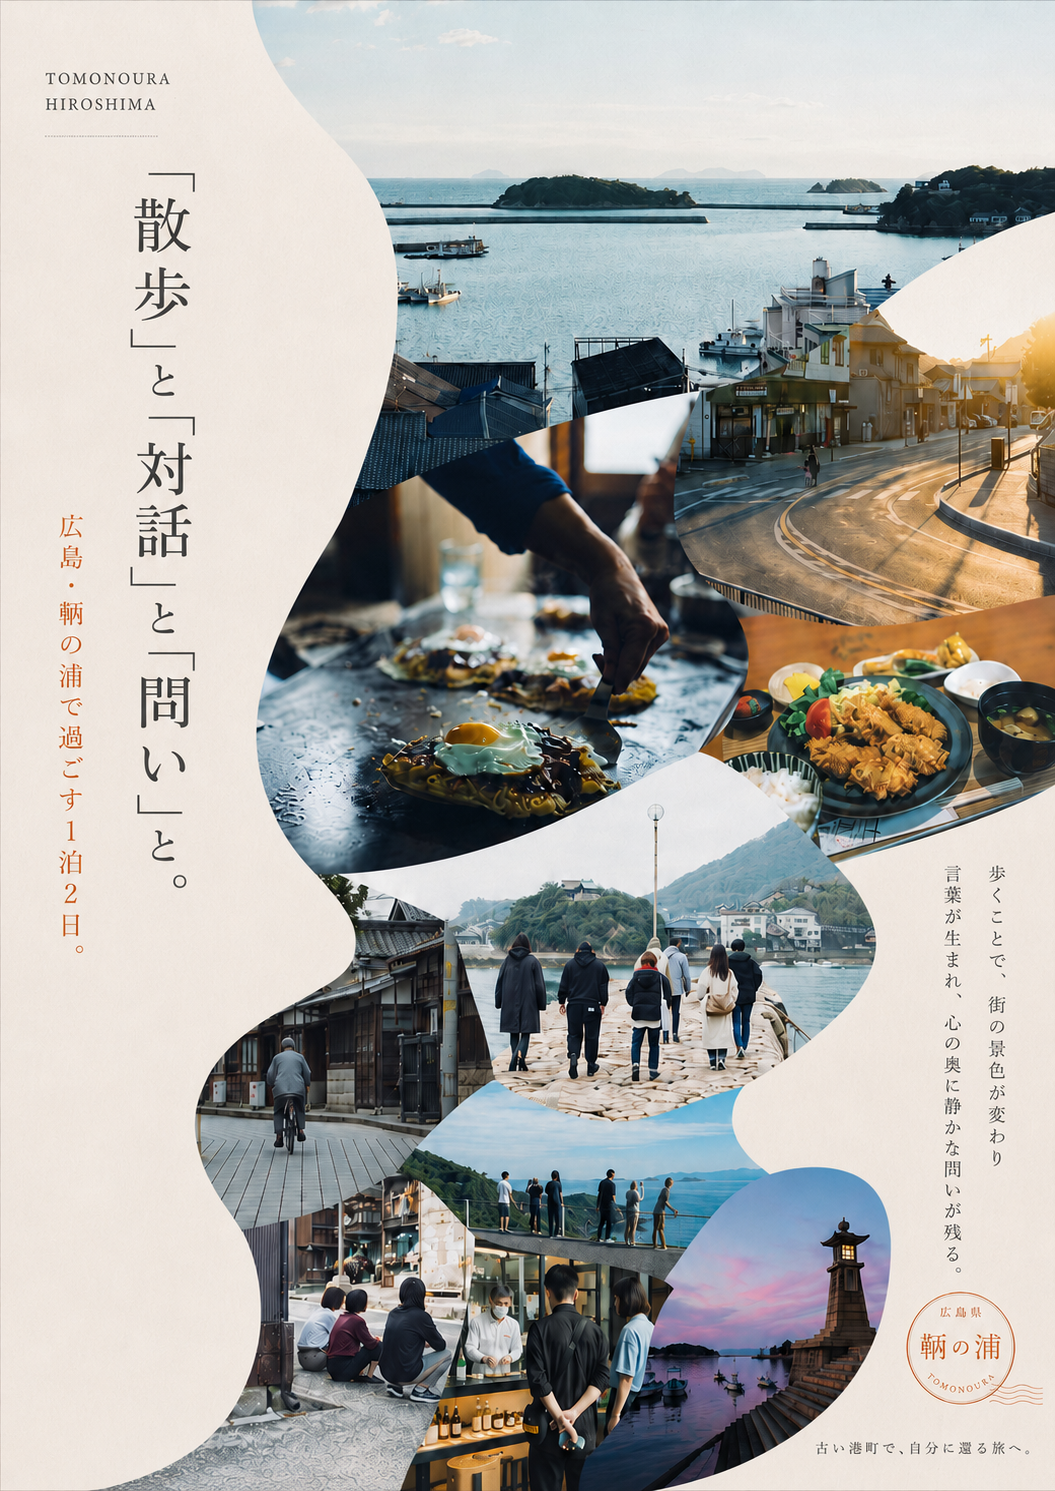
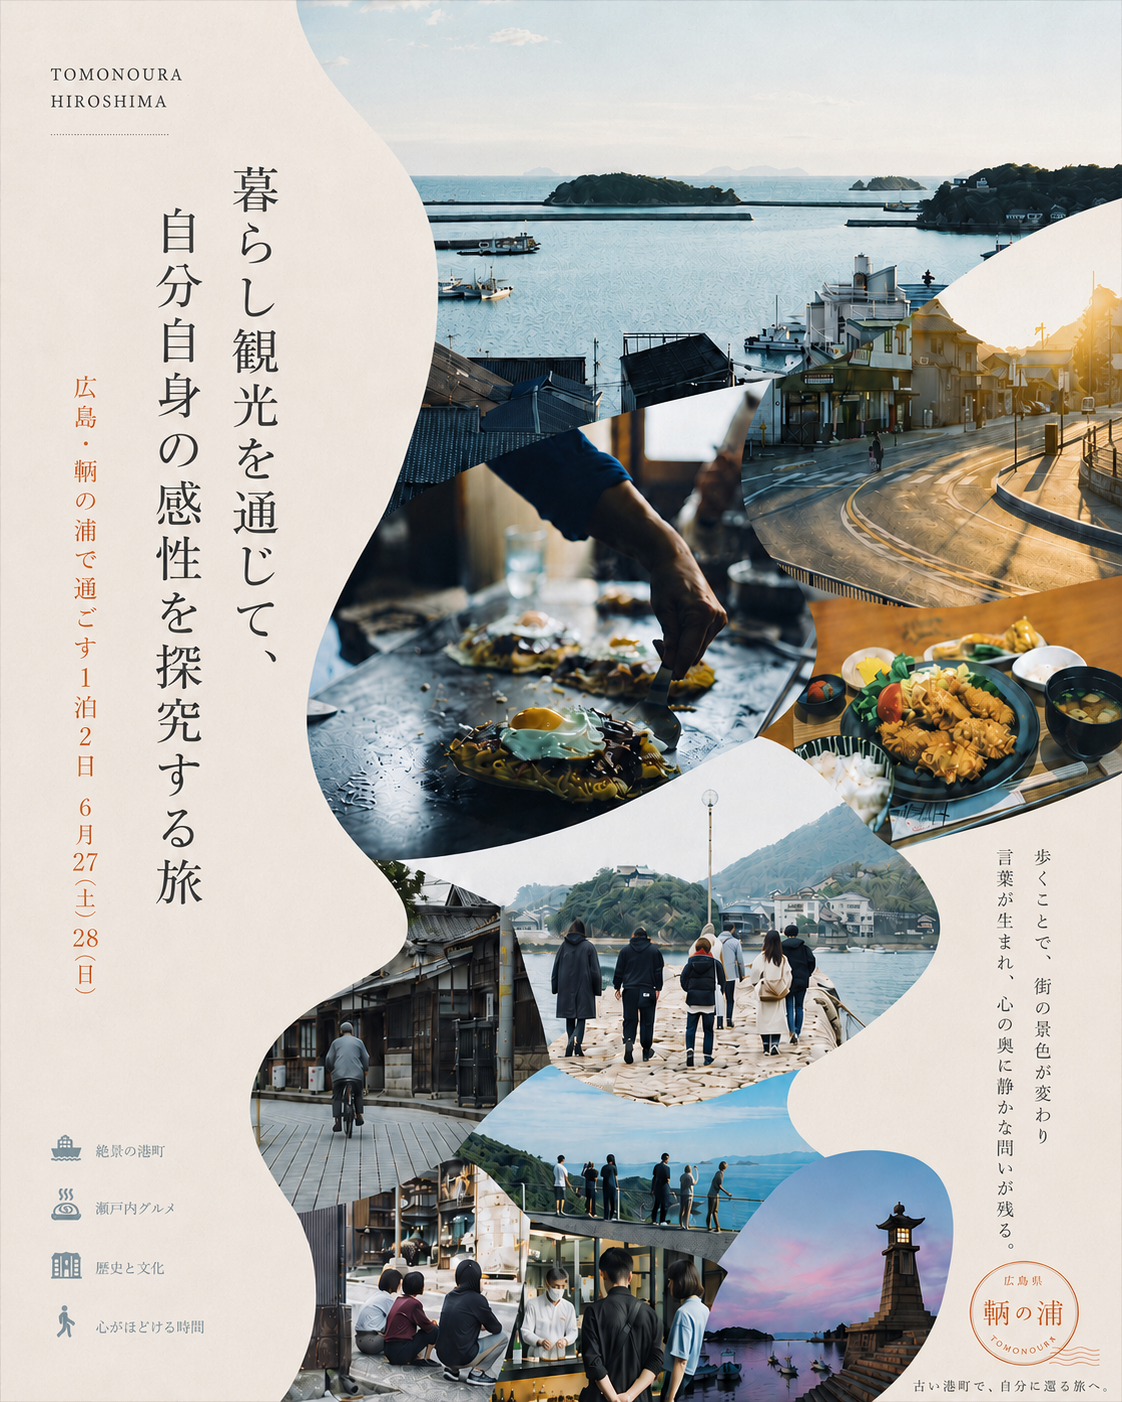
Update hero KV and 燧冶 stay photo
TOP画像を tomover2 の新ポスターに、宿泊セクションの写真を燧冶の古民家
カットに差し替え。

diff --git a/tomonoura/index.html b/tomonoura/index.html
@@ -304,7 +304,7 @@ section{position:relative;z-index:1}
 <section class="hero" id="top">
   <div class="wrap">
     <div class="poster rv">
-      <img src="images/keyvisual.png" alt="「散歩」と「対話」と「問い」と。広島・鞆の浦で過ごす1泊2日。">
+      <img src="images/keyvisual.png" alt="暮らし観光を通じて、自分自身の感性を探究する旅。広島・鞆の浦で過ごす1泊2日。">
     </div>
   </div>
 </section>
@@ -490,7 +490,7 @@ section{position:relative;z-index:1}
   <div class="wrap">
     <div class="sec-label rv"><span class="tx">Stay</span><span class="ln"></span></div>
     <div class="stay-card rv">
-      <div class="ph"><img src="images/village-street.jpg" alt="鞆の浦の古い町並み"></div>
+      <div class="ph"><img src="images/stay-hiuchiya.jpg" alt="燧冶（ひうちや）の古民家で寛ぐ様子"></div>
       <div class="tx">
         <div class="nm">燧冶（ひうちや）</div>
         <div class="en">ONE-BUILDING STAY ／ TOMONOURA</div>

diff --git a/tomonoura/DESIGN.md b/tomonoura/DESIGN.md
@@ -1,0 +1,158 @@
+# POOLO 旅LP デザイン仕様書
+
+鞆の浦の申込サイト（[index.html](index.html)）の設計図です。
+このMarkdown1枚を渡せば、同じデザインで別の旅LPを作れます。
+「次の旅でも使い回す共通テンプレート」として持っておくのが目的です。
+
+> **使い方**：新しい旅を作るときは、この仕様書をベースに
+> 「§6 差し替えチェックリスト」の項目だけ入れ替えればOKです。
+
+---
+
+## 1. このLPのコンセプト
+
+- 雑誌の特集扉のような、**静かで余白の多い1ページ完結**のランディングページ
+- 縦スクロールで「世界観 → 体験 → 写真 → スケジュール → ガイド → 概要 → 申込」へ自然に誘導
+- 申込ボタンはGoogleフォームに直結。スマホでは画面下に**追従する申込バー**が出る
+- POOLO / TABIPPO のブランドに準拠（瀬戸内ネイビー × POOLOブルー）
+
+---
+
+## 2. デザインシステム（色・文字・装飾）
+
+### カラー
+| 役割 | 色コード | 用途 |
+|---|---|---|
+| メインブルー | `#189BBC` | POOLOメインカラー。ボタン・帯・アクセント |
+| ディープブルー | `#0F7E9B` | ボタンhover、強調文字 |
+| インク（濃紺） | `#15323D` | 基本の文字色、暗い背景セクション |
+| インクソフト | `#3A5562` | 補助テキスト |
+| ペーパー（紙白） | `#F6F4EE` | 背景のベース色 |
+| ライン | `rgba(21,50,61,.14)` | 区切り線・枠線 |
+
+### フォント（Google Fonts）
+- **見出し（和文）**：Noto Serif JP（明朝）… 上品さ・特集感を出す主役
+- **本文（和文）**：Zen Kaku Gothic New / Noto Sans JP（ゴシック）
+- **欧文・ラベル**：Jost（細め・字間広め）… "CONCEPT" などの小見出しに
+- ※ブランドガイドの和文 ZEN KAKU GOTHIC NEW / 欧文 JOST に準拠
+
+### 装飾のルール
+- **角丸**：写真は大きめの角丸（14〜26px）、しずく型・有機的な変形角丸も使用
+- **影**：濃いめでぼかし大きく、下方向に落とす（`0 20px 50px -30px rgba(21,50,61,.5)` 系）
+- **水彩のにじみ**：背景にブルーのぼかし円をうっすら配置（`watermark`）
+- **リビール**：スクロールで各要素がふわっと下から出現（`.rv` クラス）
+
+---
+
+## 3. レイアウト・レスポンシブのルール
+
+- コンテンツ最大幅：**1180px**、左右の余白28px
+- **PC ↔ スマホの切替は画面幅 600px / 880px が境界**
+- 改行の出し分け（重要）：
+  - `<br class="pc-br">` … PCだけ改行、スマホでは詰める
+  - `<br class="sp-br">` … スマホだけ改行、PCでは無効
+  - `<span class="para-break">` … PCは改行、スマホは1行空け（段落の区切り）
+- スマホでは見出しを少し縮小して1行に収める（例：コンセプト見出し）
+
+---
+
+## 4. ページ構成（セクションの順番と中身）
+
+上から順に並びます。各セクションの「差し替える箇所」を太字にしています。
+
+| # | セクション | 中身 | 差し替える要素 |
+|---|---|---|---|
+| 00 | ヘッダー（固定） | ロゴ＋「申し込む」ボタン | ― |
+| 01 | **ヒーロー** | 縦長のポスター画像1枚 | **キービジュアル画像** |
+| 02 | コンセプト | アイキャッチ文＋見出し＋リード文 | **キャッチコピー・説明文** |
+| 03 | この旅で体験すること | 写真付き4カード（01〜04） | **体験4項目＋写真** |
+| 04 | ギャラリー | 写真8枚のモザイクgrid | **写真8枚** |
+| 05 | スケジュール | DAY1 / DAY2 を写真カードで | **行程＋写真** |
+| 06 | 〇〇とは（ストーリー） | 有機シェイプ写真＋引用＋説明 | **テーマ解説** |
+| 07 | ガイド（濃紺背景） | 顔写真＋名前＋肩書＋プロフィール | **ガイド情報・写真** |
+| 08 | 宿泊 | 写真＋宿名＋料金＋リンク | **宿情報** |
+| 09 | 概要 | 表形式で開催日・参加費など | **概要データ** |
+| 10 | CTA / フッター | 締めの一文＋申込ボタン | **締めコピー** |
+| ― | 追従CTAバー | スマホで下部固定の申込バー | 日付・参加費 |
+
+---
+
+## 5. 各セクションの「型」（鞆の浦の中身を例に）
+
+### 01 ヒーロー
+- 縦長ポスター画像（A4比率）を中央に1枚。角丸＋大きな影。
+- 例：「散歩」と「対話」と「問い」と。広島・鞆の浦で過ごす1泊2日。
+
+### 02 コンセプト（中央寄せ）
+- ラベル：`CONCEPT`
+- アイキャッチ（明朝・ブルー）：*暮らし観光を通じて、自分自身の感性を探究する旅*
+- 大見出し（明朝・2行）：*「なにを感じたか」を、ゆっくり言葉にしていく。*
+- リード文：2〜4文。スマホでは文ごとに1行空け。
+
+### 03 この旅で体験すること（4カード）
+各カード = 縦長写真 ＋ 通し番号(◯) ＋ 短いタイトル ＋ 1文説明
+1. 問いを持って、まちを歩く
+2. まちの暮らしに触れる
+3. 偶然の出会いを楽しむ
+4. 感じたことを言葉にする
+
+### 04 ギャラリー
+- 12カラムgridに大小8枚を変則配置（`g-a`〜`g-h`）
+- スマホでは2枚並び。ラベル：`Scenes of ◯◯`
+
+### 05 スケジュール
+- `DAY 1` / `DAY 2` を青いピル（丸タグ）で表示
+- 各ステップ = 縦長写真 ＋ 左上に番号バッジ ＋ 工程名（＋時刻）
+- 集合・解散の時刻は小さい青字で添える
+
+### 06 ◯◯とは（ストーリー）
+- 左：有機シェイプ写真2枚を重ねる／右：テキスト
+- 青タグ（テーマ名）＋ 大きな引用（明朝、一部ブルー強調）＋ 補足説明
+
+### 07 ガイド（濃紺背景・反転色）
+- 左：顔写真をしずく型に切り抜き、左下に白い名刺風バッジ（名前＋肩書）
+- 右：見出し＋プロフィール文（白系文字）
+- ※スマホでは縦積み
+
+### 08 宿泊
+- 横長カード（左：写真／右：宿名・英字ラベル・説明・料金タグ・公式リンク）
+
+### 09 概要（表）
+- `dt / dd` の2列。罫線は破線。
+- 行例：企画名・開催日・場所・集合解散・定員・ガイド・参加費・宿泊・主催・協力
+- 参加費は数字を特大（Jost）で見せる
+
+### 10 CTA / フッター
+- 締めの一文（明朝、キーワードをブルー）＋ 申込ボタン
+- フッター：地名ワードマーク（Jost・字間広め）＋ `by POOLO` ＋ 日付
+
+---
+
+## 6. 差し替えチェックリスト（新しい旅を作るとき）
+
+新規の旅LPは、デザインはそのままに以下だけ入れ替えます。
+
+- [ ] **キービジュアル画像**（ヒーロー用ポスター1枚／縦長）
+- [ ] **キャッチコピー**（アイキャッチ・大見出し・リード文）
+- [ ] **体験4項目**（タイトル＋説明＋写真4枚）
+- [ ] **ギャラリー写真8枚**
+- [ ] **スケジュール**（DAY1/DAY2の工程・時刻・写真）
+- [ ] **テーマ解説**（◯◯とは）
+- [ ] **ガイド情報**（顔写真・名前・肩書・プロフィール）
+- [ ] **宿情報**（写真・宿名・料金・リンク）
+- [ ] **概要データ**（開催日・場所・定員・参加費・主催・協力 など）
+- [ ] **GoogleフォームのURL**（HTML末尾 `const FORM_URL = "..."`）
+- [ ] **OGP/ページタイトル**（`<title>` と `og:` メタ）
+
+### 画像の準備
+- 写真は横1700px程度にリサイズ、JPEG品質84前後（容量を軽く）
+- ヒーローのキービジュアルは別途デザイン（ポスター）を用意
+- ガイドの顔写真は明るく、海・まちなど現地感のある背景が◎
+
+---
+
+## 7. このLPの実物
+
+- ファイル：[index.html](index.html)（画像は `images/` フォルダ）
+- 公開URL：https://michinorionda.github.io/poolo-life/tomonoura/
+- 参考にした同型LP：`teshima/`（豊島ツアー）